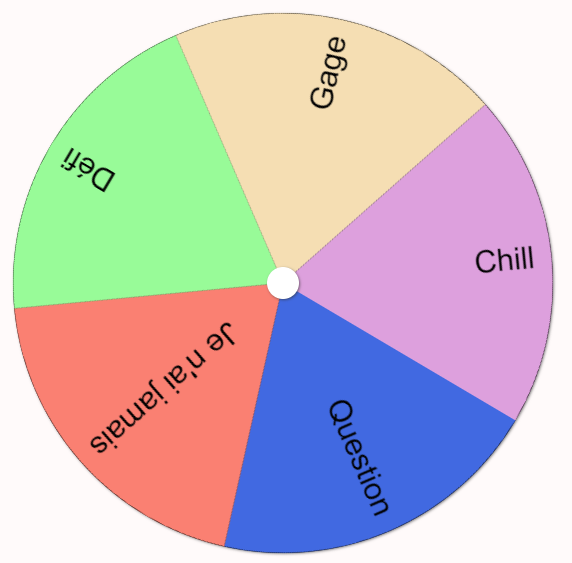
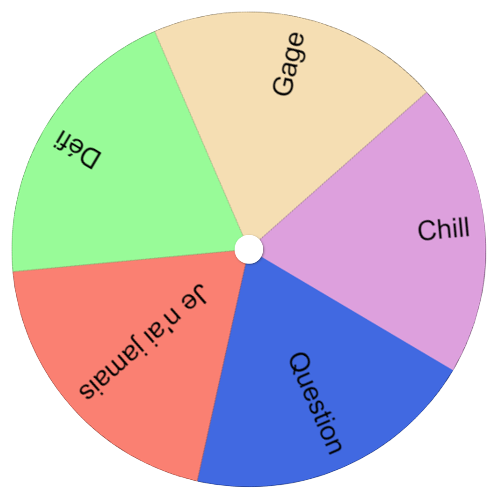
r
r

diff --git a/script.js b/script.js
@@ -4,7 +4,12 @@
 
     const canvas = document.getElementById('roulette');
     const flecheButton = document.getElementById('fleche');
-    const resultParagraph = document.querySelector('p');
+
+    const closeButton = document.querySelector('.closeButton')
+    const questionContainer = document.querySelector('.questionContainer')
+    const questionTitle = document.querySelector('.questionTitle')
+    const description = document.querySelector('.description')
+    const question = document.querySelector('.question')
 
     let n = 5;
     let a = 0;
@@ -29,6 +34,10 @@
             } else {
                 element.style.transform = `rotate(${startAngle + angle}deg)`;
                 if (complet) complet();
+                setTimeout(() => {
+                    questionContainer.style.top="0"  
+                }, 1000);
+                
             }
         }
 
@@ -48,13 +57,27 @@
             x = alea(n);
         } while (x === lastNb);
         lastNb=x
-        x = alea(n);
         a = (360 * x / n + 360 * (x - 1) / n) / 2;
         console.log(x)
+        chooseQuestion(x)
         animRotation(flecheButton, (360*5) + a, 1500 + (a / 360 * 500), "ease");
     });
 
+    closeButton.addEventListener(
+        'click',
+        ()=>{
+            questionContainer.style.top="100%" 
+        }
+    )
 
+    function chooseQuestion(nb){
+        questionTitle.textContent=questions[nb].category
+        description.textContent=questions[nb].regle
+        let m = Math.floor(Math.random() * questions[nb]["questions"].length)
+        let q = questions[nb]["questions"][m]
+        console.log(q)
+        question.textContent=q.question
+    }
 
 // QUESTIONS
 
@@ -65,16 +88,13 @@ let questions = [
         "regle": "Réponds à la question ou bois le nombre de gorgées",
         "questions": [
           {
-            "question": "Quelle est la formule chimique de l'eau ?",
-            "points": 2
+            "question": "Quel est ton plus grand fantasme ? (2 gorgées)",
           },
           {
-            "question": "Qui a découvert la loi de la gravité ?",
-            "points": 3
+            "question": "Qui a découvert la loi de la gravité ? (3 gorgées)",
           },
           {
-            "question": "Quelle est la plus grande planète du système solaire ?",
-            "points": 1
+            "question": "Quelle est la plus grande planète du système solaire ? (1 gorgée)",
           }
         ]
       },
@@ -83,34 +103,34 @@ let questions = [
         "regle": "Ceux qui n'ont jamais fait ça prennent le nombre de gorgées",
         "questions": [
           {
-            "question": "Quel est le résultat de 5 x 7 ?",
-            "points": 1
+            "question": "Je n'ai jamais fait de plan à 3 ou + (3 gorgées)"
           },
           {
-            "question": "Résolvez l'équation x² - 4x + 4 = 0.",
-            "points": 3
+            "question": "Je n'ai jamais simulé un orgasme. (2 gorgées)"
           },
           {
-            "question": "Quelle est la racine carrée de 16 ?",
-            "points": 2
+            "question": "Je n'ai jamais uriné sur mon partenaire. (4 gorgées)"
+          },
+          {
+            "question": "Je n'ai jamais trompé mon partenaire (2 gorgées)"
           }
         ]
       },
       {
         "category": "Défi",
-        "regle": "Réalise le défi ou bois le nombre de pénalité",
+        "regle": "Réalise le défi ou bois le nombre de gorgées indiqué si tu échoues ou refuses.",
         "questions": [
           {
-            "question": "Femme : tu as 30 secondes pour donner une érection à ton partenaire. Si tu y arrives il prend le nombre de gorgées indiquées. Sinon tu les prends.",
-            "points": 2
+            "question": "Femme : tu as 30 secondes pour donner une érection à ton partenaire. (2 gorgées)"
           },
           {
-            "question": "Donnez la définition du mot 'altruisme'.",
-            "points": 3
+            "question": "Ferme les yeux. Ton/ta partenaire caresse une partie de ton corps avec la partie de son corps de son choix et tu dois deviner ce que c'est. (3 gorgées)"
           },
           {
-            "question": "Conjuguez le verbe 'manger' au passé composé.",
-            "points": 1
+            "question": "Enlève un vêtement. (5 gorgées)"
+          },
+          {
+            "question": "Chuchotte à l'oreille de ton partenaire sensuellement ce que tu aimerais qu'il/elle fasse. Il ne doit pas le faire. (2 gorgées)"
           }
         ]
       },
@@ -119,16 +139,13 @@ let questions = [
         "regle": "Réalise le gage ET bois le nombre de pénalité",
         "questions": [
           {
-            "question": "Qui est l'auteur de 'Les Misérables' ?",
-            "points": 2
+            "question": "Enlève un vêtement. (2 gorgées)"
           },
           {
-            "question": "Donnez la définition du mot 'altruisme'.",
-            "points": 3
+            "question": "Enlêve un vêtement de ton partenaire sans utiliser tes mains. (3 gorgées)"
           },
           {
-            "question": "Conjuguez le verbe 'manger' au passé composé.",
-            "points": 1
+            "question": "Vous prenez tous 3 gorgées !"
           }
         ]
       },
@@ -138,15 +155,12 @@ let questions = [
         "questions": [
           {
             "question": "Fais un massage à ton/ta partenaire pendant 1 minute, à l'endroit de son choix",
-            "points": 2
           },
           {
             "question": "Pour ou contre le couple libre ?",
-            "points": 3
           },
           {
             "question": "Conjuguez le verbe 'manger' au passé composé.",
-            "points": 1
           }
         ]
       }

diff --git a/style.css b/style.css
@@ -1,11 +1,12 @@
 body{
     position: relative;
+    background-color: #ff9d9d;
 }
   
   /* Placement de la roulette */
   #roulette{
     position:absolute;
-    transform: rotate(-100deg);
+    transform: scale(1.5) rotate(-100deg);
   }
   
   /* Placement de la fleche */
@@ -62,13 +63,15 @@ body{
     height: 100vh;
     position: absolute;
     z-index: 3;
-    top: 0;
+    top: 100%;
     left: 0;
     display: flex;
     flex-direction: column;
     align-items: center;
     background-color: black;
     padding: 20px 100px;
+    margin: 0;
+    transition: all ease .6s;
 }
 
 .questionTitle{
@@ -88,13 +91,6 @@ body{
 .question{
     color: white;
     font-size: 80px;
-    font-weight: 400;
-    margin-bottom: 20px;
-}
-
-.nbPoint{
-    color: white;
-    font-size: 40px;
     font-weight: 400;
     margin-bottom: 60px;
 }

diff --git a/index.html b/index.html
@@ -23,7 +23,6 @@
         <p class="questionTitle">Défi</p>
         <p class="description">Réponds à la question ou bois le nombre de gorgées</p>
         <p class="question">Femme : tu as 30 secondes pour donner une érection à ton partenaire. Si tu y arrives il prend le nombre de gorgées indiquées. Sinon tu les prends.</p>
-        <p class="nbPoint">nombre de gorgées : 2</p>
         <div class="closeButton">
             <p class="closeTxt">Fermer</p>
         </div>
